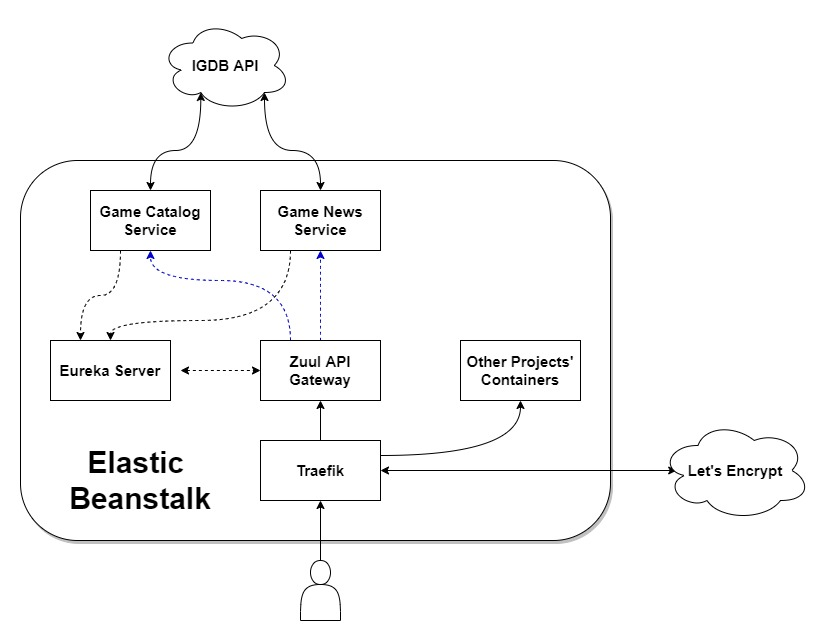
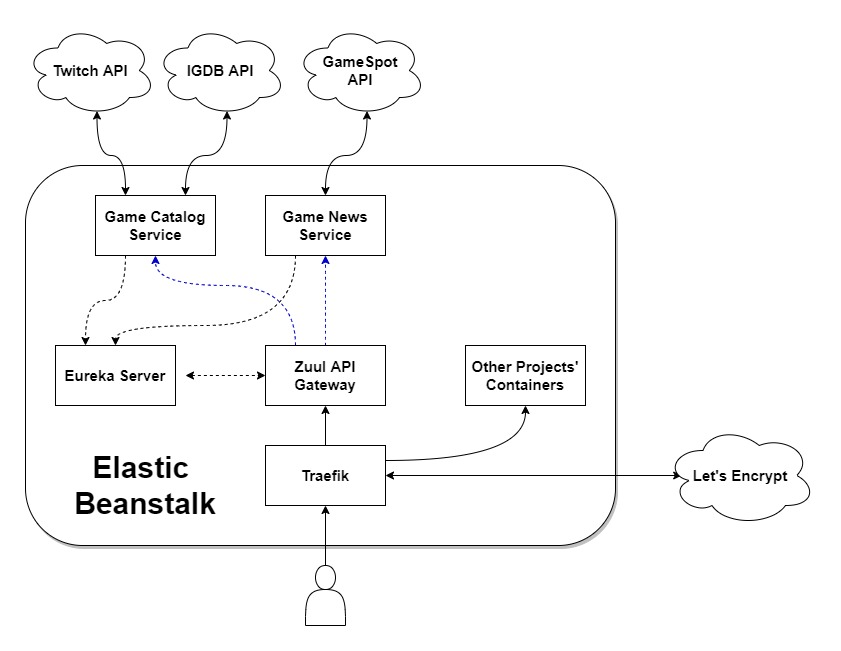
Update README.md [skip ci]

diff --git a/README.md b/README.md
@@ -98,9 +98,9 @@ Frontend repo goes through TravisCI pipeline which builds the assets and uploads
 
 - Add game search microservice
 - Add game reviews microsevice
-- Rewrite fetching of [IGDB API from v3 to v4](https://api-docs.igdb.com/#upgrading-to-v4-from-v3)
-- Change news source to [GameSpot API](https://www.gamespot.com/api/documentation#toc-0-4) because of [IGDB API breaking changes](https://api-docs.igdb.com/#breaking-changes)
-- Change most popular and most anticipated games query logic because of [IGDB API breaking changes](https://api-docs.igdb.com/#breaking-changes)
+- ~~Rewrite fetching of [IGDB API from v3 to v4](https://api-docs.igdb.com/#upgrading-to-v4-from-v3)~~
+- ~~Change news source to [GameSpot API](https://www.gamespot.com/api/documentation#toc-0-4) because of [IGDB API breaking changes](https://api-docs.igdb.com/#breaking-changes)~~
+- ~~Change most popular and most anticipated games query logic because of [IGDB API breaking changes](https://api-docs.igdb.com/#breaking-changes)~~
 - Add retryer on feignclient of IGDB API calls due to [new rate limits](https://api-docs.igdb.com/#rate-limits)
 - Add redis to cache results due to [new rate limits](https://api-docs.igdb.com/#rate-limits)
 - Add feign error decoder
